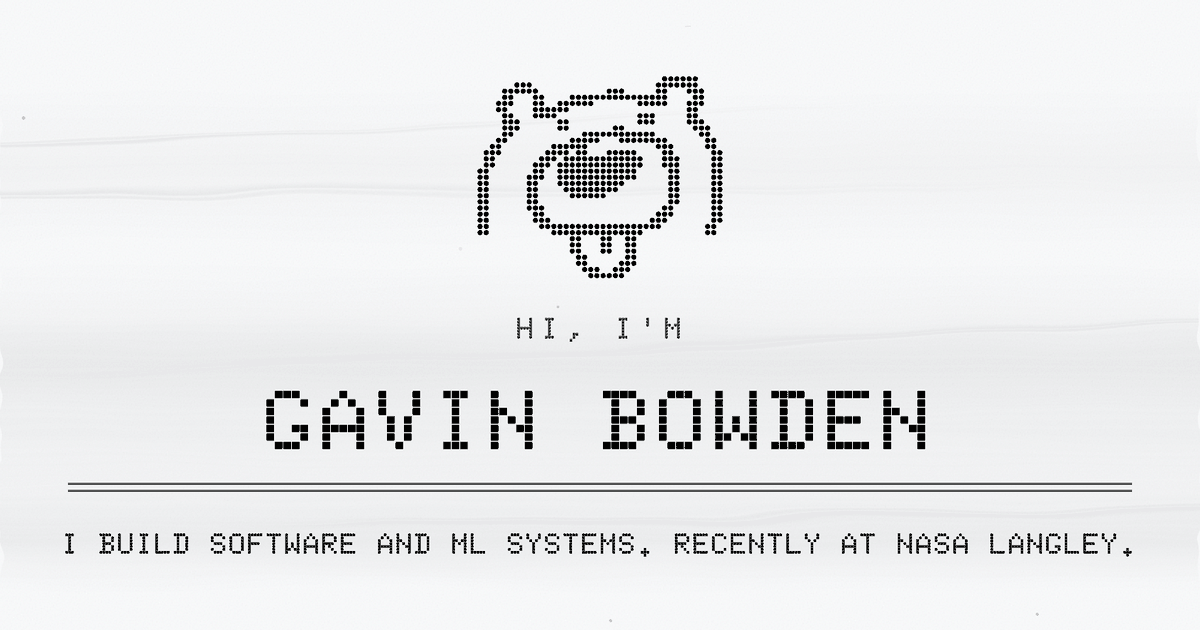
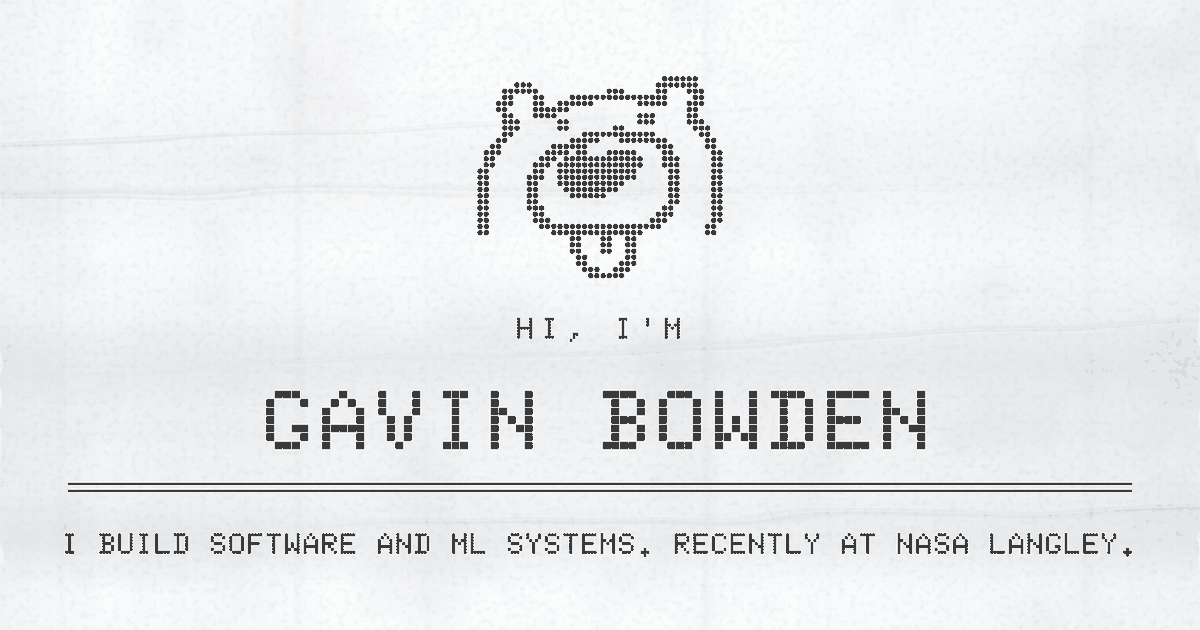
share link fix

diff --git a/src/styles/paper.css b/src/styles/paper.css
@@ -52,12 +52,22 @@
   /* How deep the tear actually runs, which is not --tear. The band is 14px, but
      the tear line itself sits ~3px into it and escapes to ~8 at its deepest
      (see tearEdge in ../lib/paper.js), so inset by the escape depth: the
-     rectangle stays under paper along the whole edge, and the shadow still
-     reaches nearly as far past the bottom of the sheet as the filter's did. */
+     rectangle stays under paper along the whole edge, and nothing but blur
+     ever shows through the notches. */
   margin: 8px 0;
+  /* Three layers. The first is the contact shadow, tight to all four edges.
+     The other two carry the sheet's top and bottom edges, and each has to pay
+     back the 8px inset above before any of it shows past the tear: a layer's
+     reach past the rectangle is offset + blur/2 + spread, so the down layer
+     reaches 20px for 12px below the sheet and the up layer 14px for 6px above
+     it — less, since the light is overhead and a sheet casts little upward.
+     Their negative spreads keep the extra reach vertical: without them each
+     would widen the left and right sides by half its blur as well, and the
+     long edges would thicken to something the flat sides never had. */
   box-shadow:
     0 2px 3px rgb(0 0 0 / 0.18),
-    0 8px 16px rgb(0 0 0 / 0.12);
+    0 12px 20px -2px rgb(0 0 0 / 0.12),
+    0 -10px 14px -3px rgb(0 0 0 / 0.1);
 }
 
 .sheet {

diff --git a/scripts/generate-og.py b/scripts/generate-og.py
@@ -4,11 +4,11 @@
 The card is the same paper, the same dot-matrix bear and the same four lines the
 receipt opens with, so a shared link arrives looking like the page it opens.
 
-Nothing here runs at build time — the card is committed as public/og.png and
-this script only exists to redraw it when the receipt's header changes. It
-The paper is the page's own: the creases, swells and specks below are a port of
-src/lib/paper.js, so the card is creased by the rules that crease every sheet on
-the site rather than by a second idea of what this stock looks like.
+The paper is the page's own, all the way down: the creases and swells below are
+a port of src/lib/paper.js and the surface under them -- sheen, grain,
+striations, mottle -- is a port of the .sheet rule in src/styles/paper.css, so
+the card is the same stock at the same colour rather than a second idea of what
+receipt paper looks like.
 
 Nothing here runs at build time -- the card is committed as public/og.png and
 this script only exists to redraw it when the receipt's header changes. It needs
@@ -142,14 +142,74 @@ PAPER_SEED = 11
 # of receipt this size would actually have picked up.
 PAPER_ZOOM = 1.35
 CREASE_SPACING = 115  # pattern units; roughly one fold per this much paper
-SPECK_AREA = 80000  # pattern units squared per speck of pulp caught in the sheet
 HARD_FOLD = 0.28  # the share of folds that are creases rather than handling
 
-# The paper's own tooth, over the flat fill. The surface -- grain, striations,
-# mottle -- is in styles/paper.css rather than paper.js, and is the same stock
-# on every sheet; this stands in for it at the one frequency that survives the
-# card being looked at in a chat list.
-GRAIN = 0.10
+# The surface -- sheen, grain, striations, mottle -- is the same stock on every
+# sheet, so it lives in styles/paper.css rather than in paper.js, and `surface`
+# below is a port of the .sheet rule's background stack. Read that rule for why
+# each layer is the strength and the size it is; this file only restates what
+# has to change to print it on a card instead of on the page.
+#
+# Every frequency and amplitude below is the CSS's own number, unscaled, which
+# is the one thing on this card drawn at the page's size: the type is printed at
+# about twice the receipt's, because the card is read at thumbnail size in a
+# chat list, but the tooth is not. Magnified it stops being tooth -- at 2x the
+# grain reads as speckle and the formation as blotching, and the card goes from
+# a sheet of paper to a photograph of one. Held at 1:1, a crop of the card and
+# a crop of the receipt are the same stock under the same light.
+#
+# The width paper.css lays its surface out against: .receipt-paper is flex
+# 0 1 400px, and the striations' period is a shade under it on purpose. The card
+# is the same sheet printed wider, not a wider sheet, so the striations keep
+# that proportion rather than that pixel count -- held at 397 card pixels they
+# would repeat three times across and resolve into exactly the rhythm the period
+# was chosen to avoid.
+SHEET_WIDTH = 400
+
+# Every stop of the .sheet striations layer, as (pattern px, lit, alpha).
+STRIATION_PERIOD = 397
+STRIATIONS = (
+    (0, False, 0),
+    (15, False, 0),
+    (17, False, 0.01),
+    (19, False, 0),
+    (50, True, 0),
+    (52, True, 0.013),
+    (54, True, 0),
+    (95, False, 0),
+    (98, False, 0.014),
+    (101, False, 0),
+    (139.5, False, 0),
+    (141, False, 0.007),
+    (142.5, False, 0),
+    (186.5, True, 0),
+    (189, True, 0.011),
+    (191.5, True, 0),
+    (234, False, 0),
+    (236, False, 0.016),
+    (238, False, 0),
+    (276.5, False, 0),
+    (278, False, 0.006),
+    (279.5, False, 0),
+    (319, True, 0),
+    (321, True, 0.012),
+    (323, True, 0),
+    (363.5, False, 0),
+    (366, False, 0.009),
+    (368.5, False, 0),
+    (397, False, 0),
+)
+
+# The .sheet sheen: the long edges of a receipt sit in shadow and a broad
+# highlight falls across it. Stops as (share across the sheet, lit, alpha).
+SHEEN = (
+    (0.00, False, 0.03),
+    (0.09, False, 0),
+    (0.28, True, 0.045),
+    (0.55, True, 0),
+    (0.82, False, 0.014),
+    (1.00, False, 0.032),
+)
 
 # Drawn at twice the size it is served at and shrunk back, which is what lands
 # the dot-matrix type and the crease displacement on a properly filtered edge
@@ -258,40 +318,104 @@ def folds(rng, width, height, zoom, defs, body):
         )
 
 
-def specks(rng, width, height, zoom):
-    """Unbleached fibre and dirt carried through the pulp.
+def split_noise(name, frequency, octaves, seed, shadow, shadow_alpha, light_alpha):
+    """One of the surface's two noise layers, exactly as paper.css builds it.
 
-    Outside the displacement group, because a speck is a particle in the paper
-    and not a shadow on it: smearing it along with the folds gives it away.
-    Counted by area in the pattern's own units, so the card is exactly as dirty
-    as the same patch of a receipt on the page.
+    A single turbulence split two ways -- dark where the noise runs high, light
+    where it runs low -- because paper reads as both denser and thinner than its
+    average, not only darker. The three-entry transfer tables hold each half at
+    zero across the half of the range the other one owns, since overlapping
+    translucent black and white do not cancel, they compound.
+
+    The alpha comes from one channel, as turbulence writes independent noise
+    into all four and letting colour through is what makes grain read as
+    compression artefacting; and sRGB interpolation is named rather than left to
+    the linearRGB default, which moves the midpoint.
     """
-    marks = []
-    area = (width / zoom) * (height / zoom)
-    for _ in range(max(1, round(area / SPECK_AREA))):
-        marks.append(
-            f"<circle cx='{rng.uniform(0, width):.1f}' "
-            f"cy='{rng.uniform(0, height):.1f}' "
-            f"r='{rng.uniform(0.3, 0.9) * zoom:.2f}' "
-            f"opacity='{rng.uniform(0.1, 0.35):.2f}'/>"
+    red, green, blue = shadow
+    return (
+        f"<filter id='{name}' x='0' y='0' width='100%' height='100%' "
+        f"color-interpolation-filters='sRGB'>"
+        f"<feTurbulence type='fractalNoise' baseFrequency='{frequency:.5f}' "
+        f"numOctaves='{octaves}' seed='{seed}' result='n'/>"
+        f"<feColorMatrix in='n' type='matrix' result='k' values='"
+        f"0 0 0 0 {red} 0 0 0 0 {green} 0 0 0 0 {blue} 1 0 0 0 0'/>"
+        f"<feComponentTransfer in='k' result='d'>"
+        f"<feFuncA type='table' tableValues='0 0 {shadow_alpha}'/>"
+        f"</feComponentTransfer>"
+        f"<feColorMatrix in='n' type='matrix' result='v' values='"
+        f"0 0 0 0 1 0 0 0 0 1 0 0 0 0 1 1 0 0 0 0'/>"
+        f"<feComponentTransfer in='v' result='l'>"
+        f"<feFuncA type='table' tableValues='{light_alpha} 0 0'/>"
+        f"</feComponentTransfer>"
+        f"<feMerge><feMergeNode in='d'/><feMergeNode in='l'/></feMerge>"
+        f"</filter>"
+    )
+
+
+def surface(width, height, defs, body):
+    """The stock itself, under the creases: what .sheet paints on every sheet.
+
+    Bottom to top, which is the reverse of the order paper.css lists them in:
+    mottle, striations, grain, sheen. The creases the caller draws go over all
+    four, as they do on the page, and the print goes over those.
+
+    paper.css tiles the two noise layers and fades each tile to nothing at its
+    top and bottom so the joins cannot show. Nothing tiles here -- the card is
+    one rect and both layers cover it in a single pass -- so the fades come off
+    with the seams, and the card gets the middle of a sheet rather than a
+    sheet's worth of edges.
+    """
+    # Formation: fibre clumping in the base sheet showing through the coating as
+    # soft cloudiness. The largest feature by far, and the one the eye actually
+    # reads as paper. Its shadow half lifts a little blue rather than dropping
+    # to flat black -- a neutral shadow on an optically brightened sheet goes
+    # muddy, and the shading has to belong to the same stock as the paper.
+    defs.append(
+        split_noise('mottle', 0.008, 5, 17, (0, 0.03, 0.12), 0.045, 0.05)
+    )
+    body.append(f"<rect width='{width}' height='{height}' filter='url(#mottle)'/>")
+
+    # The machine direction runs down the roll, so coating and calender streaks
+    # run down the receipt, never across it.
+    period = width * STRIATION_PERIOD / SHEET_WIDTH
+    defs.append(
+        f"<linearGradient id='streaks' x1='0' y1='0' x2='1' y2='0'>"
+        + ''.join(
+            stop(x / STRIATION_PERIOD, lit, alpha) for x, lit, alpha in STRIATIONS
         )
-    for _ in range(max(1, round(area / SPECK_AREA / 4))):
-        x, y = rng.uniform(0, width - 9 * zoom), rng.uniform(0, height)
-        marks.append(
-            f"<line x1='{x:.1f}' y1='{y:.1f}' "
-            f"x2='{x + rng.uniform(3, 9) * zoom:.1f}' "
-            f"y2='{y + rng.uniform(-2, 2) * zoom:.1f}' "
-            f"stroke-width='{rng.uniform(0.35, 0.6) * zoom:.2f}' "
-            f"opacity='{rng.uniform(0.12, 0.3):.2f}'/>"
-        )
-    return ''.join(marks)
+        + f"</linearGradient>"
+        f"<pattern id='striations' patternUnits='userSpaceOnUse' "
+        f"width='{period:.2f}' height='{height}'>"
+        f"<rect width='{period:.2f}' height='{height}' fill='url(#streaks)'/>"
+        f"</pattern>"
+    )
+    body.append(f"<rect width='{width}' height='{height}' fill='url(#striations)'/>")
+
+    # The coating's micro-texture. Faint: a thermal sheet is precoated and
+    # calendered, so it is smooth, and sandy grain at any real strength is the
+    # tell that it is not paper.
+    defs.append(split_noise('grain', 0.16, 4, 5, (0, 0, 0), 0.05, 0.045))
+    body.append(f"<rect width='{width}' height='{height}' filter='url(#grain)'/>")
+
+    # A receipt curls off the roll and the coated surface is satin rather than
+    # matte, so the long edges sit in shadow and a broad highlight falls across
+    # the sheet.
+    defs.append(
+        f"<linearGradient id='sheen' x1='0' y1='0' x2='1' y2='0'>"
+        + ''.join(stop(*s) for s in SHEEN)
+        + f"</linearGradient>"
+    )
+    body.append(f"<rect width='{width}' height='{height}' fill='url(#sheen)'/>")
 
 
 def paper(width, height):
-    """The sheet the card is printed on: its defs, its creases, its specks."""
+    """The sheet the card is printed on: its surface, then its creases."""
     rng = random.Random(PAPER_SEED)
     zoom = PAPER_ZOOM
-    defs, body = [], []
+    defs, stock, body = [], [], []
+
+    surface(width, height, defs, stock)
 
     # One displacement map for the whole sheet: every fold on a given piece of
     # paper wanders together, because it is the paper that is bent, not the fold.
@@ -303,11 +427,6 @@ def paper(width, height):
         f"<feDisplacementMap in='SourceGraphic' in2='t' scale='{14 * zoom:.1f}' "
         f"xChannelSelector='R' yChannelSelector='G'/></filter>"
     )
-    defs.append(
-        f"<filter id='grain' x='0' y='0' width='100%' height='100%'>"
-        f"<feTurbulence type='fractalNoise' baseFrequency='{0.9 / zoom:.3f}' "
-        f"numOctaves='4' stitchTiles='stitch'/></filter>"
-    )
 
     swells(rng, width, height, defs, body)
     folds(rng, width, height, zoom, defs, body)
@@ -315,10 +434,8 @@ def paper(width, height):
     return (
         ''.join(defs),
         f"<rect width='{width}' height='{height}' fill='{paper_colour()}'/>"
-        f"<g filter='url(#wander)'>{''.join(body)}</g>"
-        f"<g fill='{INK}' stroke='{INK}'>{specks(rng, width, height, zoom)}</g>"
-        f"<rect width='{width}' height='{height}' filter='url(#grain)' "
-        f"opacity='{GRAIN}'/>",
+        + ''.join(stock)
+        + f"<g filter='url(#wander)'>{''.join(body)}</g>",
     )
 
 
